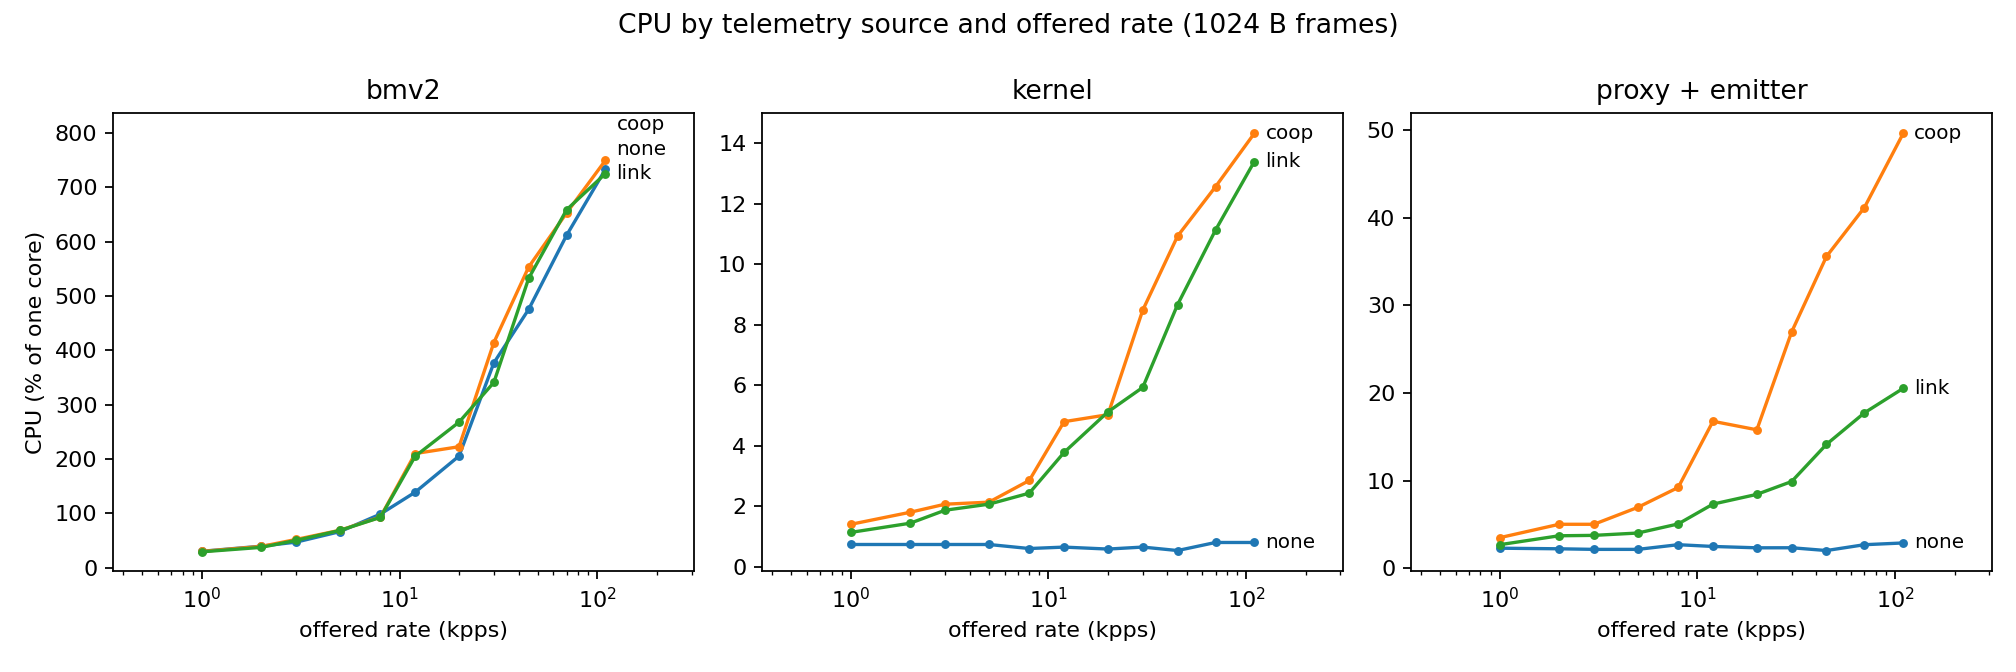
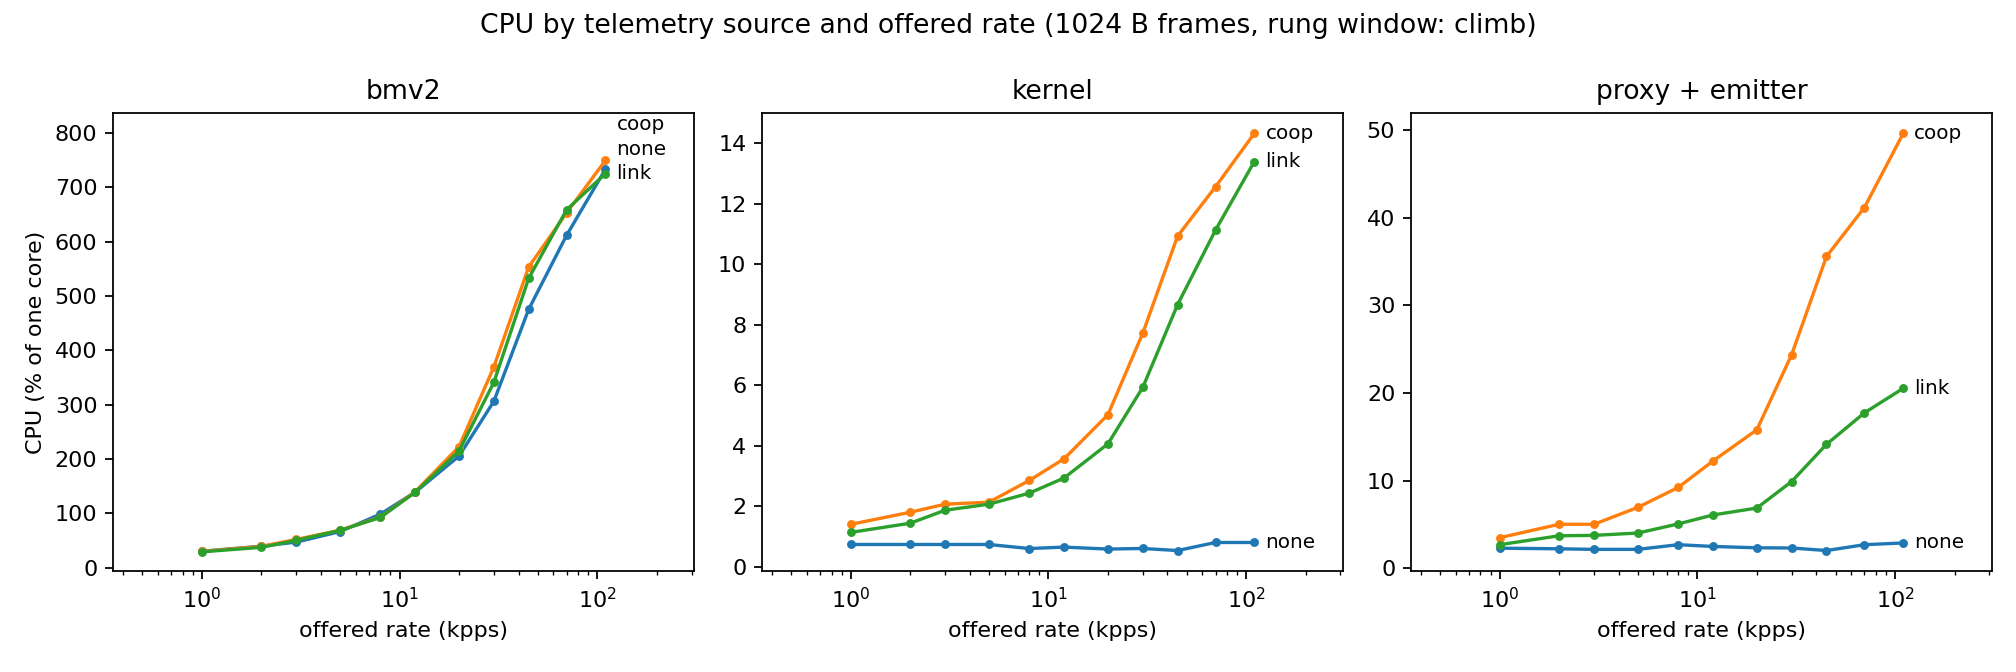
FINDINGS 4 erratum and fig3: the per-rung CPU window swallowed the higher rungs; section 4, 5(b), 6 and 8 regenerated from the corrected summary, old values kept
TICKET-P4 section 7 ruling 4 (Adam, 2026-09-24). Section 4.0 (new) records what was wrong
(analyse.py rung_windows at 30aa500c :693-703 unioned every rungs.tsv row of a kpps, so the
re-confirmed rung's window contained every rung climbed after it), who found and verified it,
the reading ("climb" -- decided by Adam, NOT registered by PREREG, with the recorded
rationale), that both readings give identical verdicts on the fifth campaign, and an
old -> new table for every changed number. H-C (both groups) and reconciliation (b) are
unchanged; 2 of 11 registered bmv2 per-rung verdicts flip (12 kpps outside -> inside,
30 kpps inside -> outside; still 2 of 11 outside).

Every changed number in sections 4, 5(b), 6 and 8 was written by
logs/orchestrator-0924/cpu-window-recheck/fill_findings_erratum.py: each published sentence is
rebuilt from the pre-fix summary and must match FINDINGS exactly once before the same template,
filled from the corrected summary (analyse.py at 68735150), replaces it. Nothing typed by hand.
Cooperative keeps the registered label H-C1, and the table now says beside it that the fixed
share is 0.0257 and H-C1 holds only because m = 126.19 is in [103, 618] (ruling 40(4)).

fig3_cpu.png/.pdf regenerated by plot.py at 68735150 (miniconda python3, matplotlib 3.10.8)
from that summary; its title names "rung window: climb". fig1/fig2 are not touched: their
regeneration is byte-identical as PNG and differs as PDF only inside /CreationDate (logged,
[…]

diff --git a/doc/audit/2026-09-19_telemetry-three-groups/FINDINGS.md b/doc/audit/2026-09-19_telemetry-three-groups/FINDINGS.md
@@ -136,9 +136,55 @@ emitter 統計行（梯子臂 `emitter.log` 加總）：`samples=510829 emitted=
 
 ## 4. 三、CPU
 
-本節的 H-C 判決是**每個處理組一次**（PREREG 5.3 為 kernel 的擬合註冊 H-C1／H-C2／H-C3／H-C0，擬合用三組共同的每一階；bmv2 只註冊逐階比值 ∈ [0.90, 1.15]、不帶 H-C 標籤——第十輪任務 C 查證、裁決 40）。H-C2 的第二條件沒有註冊容差 ⇒ 本輪**不可判**（裁決 40③），不准事後挑容差。數字由腳本從 `cpu_kernel`／`cpu_bmv2_ratio`／`external_gate` 抽出。
+### 4.0 🔴 勘誤（2026-09-24）：逐階 CPU 視窗吞進了更高階
 
-**圖：`fig3_cpu.png` / `.pdf`（bmv2／kernel／proxy+emitter 三個面板）。**
+**錯在哪。** `analyse.py` 的 `rung_windows`（`:693-703`；本段行號皆為勘誤前的 `30aa500c`）把 `rungs.tsv` 裡同一個 kpps 的所有列聯集成**一個** (min t_start, max t_end) 視窗。梯頂再確認的三個 rep（`c1`–`c3`，`run_group_arm.sh:420-440`）以同一個 kpps 記在**整個爬梯之後**，所以被確認那一階的視窗從爬梯第一個 rep 一路包到確認最後一個 rep、中間更高的階全在裡面（例：`G4/link_f64_b` 的 20 kpps 視窗 110.0 s，包住 30–110 kpps）。兩個消費者都錯在那一階：逐階 CPU（`cpu_by_rung`，`:739-740`）與 S(k)（`rung_samples_per_second`，`:708`——分子只有爬梯的樣本、分母是整段）。本節 1024 B 受影響的格：coop 12／30、link 12／20、none 30 kpps。第四次 campaign 的 raw 同形狀。
+
+**誰、何時。** 2026-09-24 由 P4 worker P 發現；orchestrator、worker C（離線重驗）與判官（opus，HOLDS WITH CORRECTIONS）各自驗證。修正後每一階的視窗＝它自己的 rep，S(k) 只用爬梯（PREREG A1.5 `:505-507`）。
+
+**讀法——Adam 裁定，不是 PREREG 註冊的。** 梯頂再確認的 rep 算不算該階的 CPU，PREREG 沒有決定（§4.1 `:161-162` 只說再確認是梯子程序的一部分）。本文的主讀法＝**climb（只算爬升的 rep）**，由 **Adam 2026-09-24, TICKET-P4 §7 ruling 4** 裁定、**非 PREREG 註冊**。記錄的理由：§5.3（`:263-266`）把 CPU(k) 與 S(k) 配成同一個擬合，而 S(k) 只涵蓋爬升（`:505-507`）⇒ 兩邊同一個窗；本輪沿用的 08-28 規則（`2026-08-28_flow-count-capacity/PREREG.md:254-255`）把首讀與再確認分開記，“so a disagreement between them is visible rather than overwritten”。另一讀法（climb＋再確認 rep）照算、並列在 `summary.json` 的 `cpu_window`；**兩種讀法在第五次 campaign 的判決逐項相同**（H-C ×2、對帳 (b) ×2、bmv2 逐階 ×11），但數字不全同（例：bmv2 30 kpps 比值 1.206 vs 1.235）。
+
+**判決。** H-C（兩組）與對帳 (b) **不變**；**註冊的 bmv2 逐階判決有 2／11 翻轉**（12 kpps 由帶外翻帶內（1.513→1.006）、30 kpps 由帶內翻帶外（1.099→1.206）），帶外總數仍 2／11。`cooperative` 仍是 H-C1，但它的固定份額現在是 0.0257——H-C1 成立的依據**只有** m 落帶（裁決 40④）。
+
+**舊值不刪。** 下表每一列＝一個被這次勘誤改動的數（舊＝勘誤前公開的值，新＝climb 讀法）；本節其餘的數字與 §1–§3、§5(a)(c) 都沒有變（summary.json 逐葉對帳：1560 個葉值相同、99 個變，全在 `cpu_kernel`／`cpu_bmv2`／`cpu_bmv2_ratio`／對帳 (b)）。
+
+| 出處 | 量 | 舊（勘誤前） | 新（climb） |
+|---|---|---|---|
+| §4 表 12 kpps | 量到的 samples/s（coop） | 132.0 | 215.7 |
+| §4 表 12 kpps | Δkernel(coop−none) | +4.149 | +2.921 |
+| §4 表 12 kpps | Δkernel(link−none) | +3.131 | +2.286 |
+| §4 表 12 kpps | 散佈 coop | 2.612 | 0.157 |
+| §4 表 12 kpps | 散佈 link | 1.157 | 0.533 |
+| §4 表 20 kpps | Δkernel(link−none) | +4.538 | +3.481 |
+| §4 表 20 kpps | 散佈 link | 3.164 | 1.050 |
+| §4 表 30 kpps | 量到的 samples/s（coop） | 367.0 | 550.6 |
+| §4 表 30 kpps | Δkernel(coop−none) | +7.836 | +7.119 |
+| §4 表 30 kpps | Δkernel(link−none) | +5.281 | +5.327 |
+| §4 表 30 kpps | 散佈 coop | 0.895 | 2.422 |
+| §4 分解 `cooperative` | F（% of one core） | 0.9234 | 0.3212 |
+| §4 分解 `cooperative` | m（µs/sample） | 122.89 | 126.19 |
+| §4 分解 `cooperative` | 固定份額（＝H-C2 條件一的 share） | 0.0722 | 0.0257 |
+| §4 分解 `cooperative` | 判定 | H-C1 cost is dominated by a fixed component (08-20 reproduces) | **不變** |
+| §4 分解 `cooperative` | Δ比 / S比（1 與 110 kpps） | 20.297 / 51.802 | **不變** |
+| §4 分解 `link` | F（% of one core） | 0.7692 | 0.2492 |
+| §4 分解 `link` | m（µs/sample） | 79.00 | 82.41 |
+| §4 分解 `link` | 固定份額（＝H-C2 條件一的 share） | 0.0623 | 0.0202 |
+| §4 分解 `link` | 判定 | not decided: H-C2 condition 1 holds (share <= 0.2); condition 2 (delta ratio ~ S ratio) has no registered tolerance | **不變** |
+| §4 分解 `link` | Δ比 / S比（1 與 110 kpps） | 31.505 / 58.680 | **不變** |
+| §4 bmv2 coop/none | 12 kpps | 1.513（帶外） | 1.006（帶內）——**註冊的逐階判決翻轉** |
+| §4 bmv2 coop/none | 30 kpps | 1.099（帶內） | 1.206（帶外）——**註冊的逐階判決翻轉** |
+| §4 bmv2 coop/none | 帶外的階 | 12、45（2／11） | 30、45（2／11） |
+| §5 (b) `cooperative` | m / 固定份額 | 122.9 / 0.072 | 126.2 / 0.026 |
+| §5 (b) `cooperative` | 判定 | 一致 | **不變** |
+| §5 (b) `link` | m / 固定份額 | 79.0 / 0.062 | 82.4 / 0.020 |
+| §5 (b) `link` | 判定 | 落外 | **不變** |
+| fig3 | 三個面板在 12／20／30 kpps 的點 | `c1f4174f` 的圖 | 重生，標題寫明 `rung window: climb` |
+
+勘誤後的數字取自 `summary.115737Z.fix-68735150.json`（勘誤前的取自 `summary.115737Z.base-30aa500c.json`）。重驗的全部輸出（兩份 summary.json、逐葉對帳、不 import `analyse.py` 的第二套儀器、逐臂的再確認段 CPU）：`scratch/overnight-2026-09-05/logs/orchestrator-0924/cpu-window-recheck/`；報告 `scratch/overnight-2026-09-05/hunt-0911/fix/P4-C-SUMMARY.md`。
+
+本節的 H-C 判決是**每個處理組一次**（PREREG 5.3 為 kernel 的擬合註冊 H-C1／H-C2／H-C3／H-C0，擬合用三組共同的每一階；bmv2 只註冊逐階比值 ∈ [0.90, 1.15]、不帶 H-C 標籤——第十輪任務 C 查證、裁決 40）。H-C2 的第二條件沒有註冊容差 ⇒ 本輪**不可判**（裁決 40③），不准事後挑容差。數字由腳本從 `cpu_kernel`／`cpu_bmv2_ratio`／`external_gate` 抽出（2026-09-24 起取自勘誤後的 summary.json；逐階視窗＝climb，Adam 裁定、非 PREREG 註冊；勘誤前的值在 §4.0）。
+
+**圖：`fig3_cpu.png` / `.pdf`（bmv2／kernel／proxy+emitter 三個面板）。** 2026-09-24 以 climb 讀法重生（標題寫明 `rung window: climb`）；勘誤前的圖在 git 歷史 `c1f4174f`。
 
 🔴 數字只取**梯子臂**：取樣誤差視窗自帶 4 Hz 的 `/ndt/get_graph_data` poll，而那個 HTTP 工作
 就是被量 CPU 的 kernel 行程在服務（08-20 的 `POLL=off` 為此存在）。
@@ -150,23 +196,25 @@ emitter 統計行（梯子臂 `emitter.log` 加總）：`samples=510829 emitted=
 | 3 | 59 | +1.333 | +1.133 | coop 0.133／link 0.800 | 是 |
 | 5 | 97 | +1.400 | +1.333 | coop 0.133／link 0.133 | 是 |
 | 8 | 153 | +2.251 | +1.831 | coop 0.164／link 0.706 | 是 |
-| 12 | 132 | +4.149 | +3.131 | coop 2.612／link 1.157 | 是 |
-| 20 | 359 | +4.444 | +4.538 | coop 0.485／link 3.164 | 是 |
-| 30 | 367 | +7.836 | +5.281 | coop 0.895／link 1.741 | 是 |
+| 12 | 216 | +2.921 | +2.286 | coop 0.157／link 0.533 | 是 |
+| 20 | 359 | +4.444 | +3.481 | coop 0.485／link 1.050 | 是 |
+| 30 | 551 | +7.119 | +5.327 | coop 2.422／link 1.741 | 是 |
 | 45 | 824 | +10.398 | +8.132 | coop 0.268／link 1.334 | 是 |
 | 70 | 948 | +11.764 | +10.331 | coop 0.868／link 3.066 | 是 |
 | 110 | 965 | +13.530 | +12.598 | coop 0.133／link 4.668 | 是 |
 
 ### 分解（PREREG 5.3）
 
+逐階視窗＝**climb**（Adam 2026-09-24 裁定、非 PREREG 註冊，§4.0）。
+
 | 組 | F（% of one core） | m（us/sample） | 固定份額 F/(F+m·S_top) | 判定 |
 |---|---|---|---|---|
-| `cooperative` | 0.9234 | 122.89 | 0.0722 | H-C1 cost is dominated by a fixed component (08-20 reproduces)（H-C2 條件一成立：share 0.072；條件二 Δ(高)/Δ(低) 20.297 vs S(高)/S(低) 51.802，PREREG 無註冊容差 ⇒ 不可判，裁決 40③） |
-| `link` | 0.7692 | 79.00 | 0.0623 | not decided: H-C2 condition 1 holds (share <= 0.2); condition 2 (delta ratio ~ S ratio) has no registered tolerance（H-C2 條件一成立：share 0.062；條件二 Δ(高)/Δ(低) 31.505 vs S(高)/S(低) 58.680，PREREG 無註冊容差 ⇒ 不可判，裁決 40③） |
+| `cooperative` | 0.3212 | 126.19 | 0.0257 | H-C1 cost is dominated by a fixed component (08-20 reproduces)【🔴 標籤名說「固定成分主導」，但固定份額只有 0.0257——H-C1 在這裡成立的依據**只有** m＝126.19 落在 [103, 618]（裁決 40④）；固定份額那一條（≥ 0.5）不成立】（H-C2 條件一成立：share 0.026；條件二 Δ(高)/Δ(低) 20.297 vs S(高)/S(低) 51.802，PREREG 無註冊容差 ⇒ 不可判，裁決 40③） |
+| `link` | 0.2492 | 82.41 | 0.0202 | not decided: H-C2 condition 1 holds (share <= 0.2); condition 2 (delta ratio ~ S ratio) has no registered tolerance（H-C2 條件一成立：share 0.020；條件二 Δ(高)/Δ(低) 31.505 vs S(高)/S(低) 58.680，PREREG 無註冊容差 ⇒ 不可判，裁決 40③） |
 
-🔴 **判定欄怎麼讀**（裁決 40③④）：`cooperative` 的 H-C1 **只靠 m 落帶**（122.89 ∈ [103, 618]）；固定份額 0.0722 < 0.5 那一條不成立，而 H-C2 的條件一（≤ 0.2）反而成立。`link` 的註冊結局是**不可判**：m 79.00 落帶外、固定份額 0.0623 ⇒ 不是 H-C1；H-C2 的第二條件沒有註冊容差；不是 H-C3（H-C3＝介於兩者，link 的份額落在 H-C2 那一側）。兩組的 Δ 比與 S 比只當資料列出，沒有任何東西拿它們下判決。
+🔴 **判定欄怎麼讀**（裁決 40③④）：`cooperative` 的 H-C1 **只靠 m 落帶**（126.19 ∈ [103, 618]）；固定份額 0.0257 < 0.5 那一條不成立，而 H-C2 的條件一（≤ 0.2）反而成立。`link` 的註冊結局是**不可判**：m 82.41 落帶外、固定份額 0.0202 ⇒ 不是 H-C1；H-C2 的第二條件沒有註冊容差；不是 H-C3（H-C3＝介於兩者，link 的份額落在 H-C2 那一側）。兩組的 Δ 比與 S 比只當資料列出，沒有任何東西拿它們下判決。
 
-**bmv2 CPU**（08-20 預測不動；PREREG 5.3 逐階註冊、沒有跨階彙總）：`bmv2(cooperative)/bmv2(none)` 逐階＝1 kpps 0.991、2 kpps 0.988、3 kpps 1.105、5 kpps 1.038、8 kpps 0.943、12 kpps 1.513、20 kpps 1.084、30 kpps 1.099、45 kpps 1.164、70 kpps 1.067、110 kpps 1.022；區間 [0.90, 1.15] ⇒ **9 階一致、2 階不一致**（落外的階：12 kpps 1.513、45 kpps 1.164）。
+**bmv2 CPU**（08-20 預測不動；PREREG 5.3 逐階註冊、沒有跨階彙總）：`bmv2(cooperative)/bmv2(none)` 逐階＝1 kpps 0.991、2 kpps 0.988、3 kpps 1.105、5 kpps 1.038、8 kpps 0.943、12 kpps 1.006、20 kpps 1.084、30 kpps 1.206、45 kpps 1.164、70 kpps 1.067、110 kpps 1.022；區間 [0.90, 1.15] ⇒ **9 階一致、2 階不一致**（落外的階：30 kpps 1.206、45 kpps 1.164）。逐階視窗＝climb（Adam 2026-09-24 裁定、非 PREREG 註冊）；勘誤翻了 2 個註冊的逐階判決：12 kpps 由帶外翻帶內（1.513→1.006）、30 kpps 由帶內翻帶外（1.099→1.206），見 §4.0。
 
 **softirq**（`link` 的資料面成本歸屬不到任何 pid；各組臂的 `softirq_share` 中位數）：`none` 0.0105／`cooperative` 0.0082／`link` 0.0102 ⇒ **沒有成真**（PREREG 5.3 只註冊「逐組報」與方向，沒有區間）。
 
@@ -191,15 +239,17 @@ vs 3 跳 ③kernel binary 不同 ④**08-28 的臂開著合作式取樣**。
 
 ### (b) CPU vs 08-20「遙測成本固定、不是每樣本」
 
+逐階視窗＝**climb**（Adam 2026-09-24 裁定、非 PREREG 註冊；勘誤前的值在 §4.0）。
+
 | | 本輪 | 08-20 | 判準 | 判定 |
 |---|---|---|---|---|
-| m（us/sample）（cooperative） | 122.9 | 206 | 落在 [103, 618] | **一致** |
-| 固定份額（cooperative） | 0.072 | 0.81 | 大於等於 0.5 | **不成立** |
-| m（us/sample）（link） | 79.0 | 206 | 落在 [103, 618] | **落外** |
-| 固定份額（link） | 0.062 | 0.81 | 大於等於 0.5 | **不成立** |
+| m（us/sample）（cooperative） | 126.2 | 206 | 落在 [103, 618] | **一致** |
+| 固定份額（cooperative） | 0.026 | 0.81 | 大於等於 0.5 | **不成立** |
+| m（us/sample）（link） | 82.4 | 206 | 落在 [103, 618] | **落外** |
+| 固定份額（link） | 0.020 | 0.81 | 大於等於 0.5 | **不成立** |
 
 任一成立＝與「成本固定」一致。兩個都不成立 ⇒ **「固定成本的結論在 10 台 fabric／8 s 視窗上沒有重現」
-是一個結果**——本輪它只落在 `link`（`cooperative` 的 m 落在區間內，所以 cooperative 與「成本固定」一致）。候選（INFERRED，未量）：① **視窗長度**（8 s vs 08-20 的長視窗）——短視窗把 emitter 的啟動成本攤進斜率，會把 m 壓低（本輪 79.0 < 103）；② **fabric 大小**（10 台、32 條交換機間埠）——`link` 的 psample 成本分散在多個 softirq 脈絡，「集中在單一執行緒」的固定份額（0.062）自然變小；③ **零點**——08-20 的零點是「零取樣但機制開著」，本輪的 `none` 是「機制關掉」，兩者對「固定成本」的定義不同。能判定的：同 fabric 把視窗拉到 30 s（若 m 進區間＝①）；同視窗換 4 台 fabric（若固定份額回到 ≥0.5＝②）；加一個「取樣率趨近 0 但 emitter 開著」的臂（釘住 ③）。三者都是另一輪。
+是一個結果**——本輪它只落在 `link`（`cooperative` 的 m 落在區間內，所以 cooperative 與「成本固定」一致）。候選（INFERRED，未量）：① **視窗長度**（8 s vs 08-20 的長視窗）——短視窗把 emitter 的啟動成本攤進斜率，會把 m 壓低（本輪 82.4 < 103）；② **fabric 大小**（10 台、32 條交換機間埠）——`link` 的 psample 成本分散在多個 softirq 脈絡，「集中在單一執行緒」的固定份額（0.020）自然變小；③ **零點**——08-20 的零點是「零取樣但機制開著」，本輪的 `none` 是「機制關掉」，兩者對「固定成本」的定義不同。能判定的：同 fabric 把視窗拉到 30 s（若 m 進區間＝①）；同視窗換 4 台 fabric（若固定份額回到 ≥0.5＝②）；加一個「取樣率趨近 0 但 emitter 開著」的臂（釘住 ③）。三者都是另一輪。
 
 比 `m` 不比 `F` 的理由（註冊過）：`m` 是邊際斜率該跨 fabric 轉移；`F` 跟圖的大小走，本來就不該轉移。
 
@@ -241,6 +291,7 @@ vs 3 跳 ③kernel binary 不同 ④**08-28 的臂開著合作式取樣**。
 10. **`cpu.jsonl` 的樣本列不在結構對帳範圍內**(裁決 37⑥a):`inventory.py` 的基數比對
     只讀 `.jsonl` 第一行,所以每列 `proc` 裡的十個 bmv2 沒有被守住——
     一份「header 宣告十台、每列只寫一台」的 fixture 會完整通過那支對帳。
+11. 🔴 **逐階 CPU 視窗的讀法不是 PREREG 註冊的**（§4.0）：PREREG 沒說梯頂再確認的 rep 算不算該階；本文用 climb（Adam 2026-09-24 裁定）。另一讀法的數字在 `summary.json` 的 `cpu_window`——第五次兩讀法判決逐項相同，但數字不全同（bmv2 30 kpps 比值 1.206 vs 1.235、link 20 kpps 散佈 1.050 vs 1.148）。
 
 ---
 
@@ -260,6 +311,6 @@ vs 3 跳 ③kernel binary 不同 ④**08-28 的臂開著合作式取樣**。
 
 | 支持 | 不支持 |
 |---|---|
-| C1／C2 產生器天花板 733,469.6／727,636.4 pps ≥ 5×150,000 ⇒ 天花板數字不是產生器的；C3 陽性對照 FIRES ⇒ 外部 CPU 閘會動；`link` 在 64 B 與 1024 B 都把 pps 天花板從 30.0 壓到 16.0 kpps（H-A2）；對帳 (b) `cooperative` 的 m＝122.9 µs/sample 落在 [103,618]；對帳 (c) 四列並排、無一格除以另一格 | `cooperative` 的天花板比值（H-A0，臂差 2 階，不報比值）；六格 H-B 取樣誤差判決與 H-C 標籤（**等第十輪的 PREREG 註冊層級判決，此處不引用逐格標籤**）；對帳 (a) `none` 30.0 vs 舊 16.0 落外 ⇒ 舊的 pps 天花板數字不能直接沿用到本 fabric；對帳 (b) `link` 的 m＝79.0 落外且固定份額 0.062 ⇒「成本固定」在 link 路沒有重現（§5 候選） |
+| C1／C2 產生器天花板 733,469.6／727,636.4 pps ≥ 5×150,000 ⇒ 天花板數字不是產生器的；C3 陽性對照 FIRES ⇒ 外部 CPU 閘會動；`link` 在 64 B 與 1024 B 都把 pps 天花板從 30.0 壓到 16.0 kpps（H-A2）；對帳 (b) `cooperative` 的 m＝126.2 µs/sample 落在 [103,618]（climb 讀法）；對帳 (c) 四列並排、無一格除以另一格 | `cooperative` 的天花板比值（H-A0，臂差 2 階，不報比值）；六格 H-B 取樣誤差判決與 H-C 標籤（**等第十輪的 PREREG 註冊層級判決，此處不引用逐格標籤**）；對帳 (a) `none` 30.0 vs 舊 16.0 落外 ⇒ 舊的 pps 天花板數字不能直接沿用到本 fabric；對帳 (b) `link` 的 m＝82.4 落外且固定份額 0.020（climb 讀法） ⇒「成本固定」在 link 路沒有重現（§5 候選） |
 
 **[Co-developed with claude code -- Adam]**
